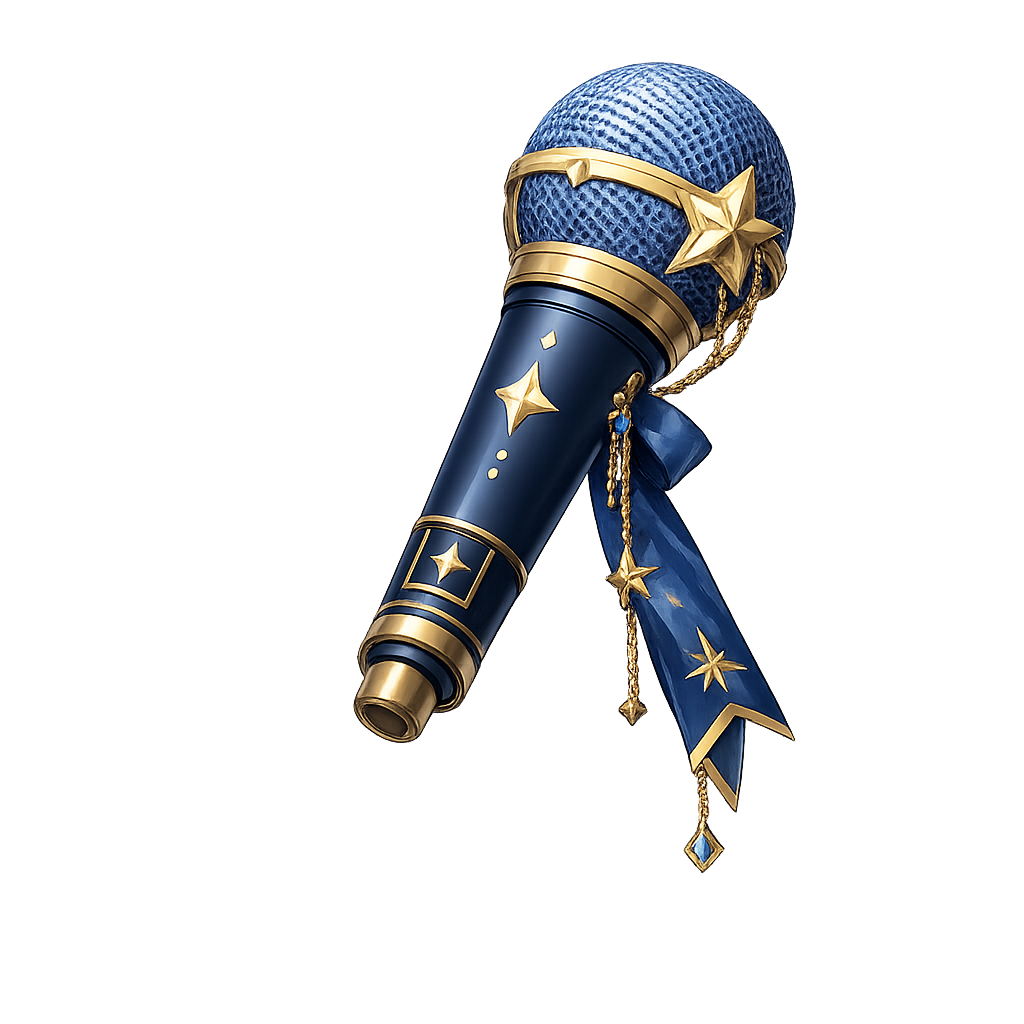
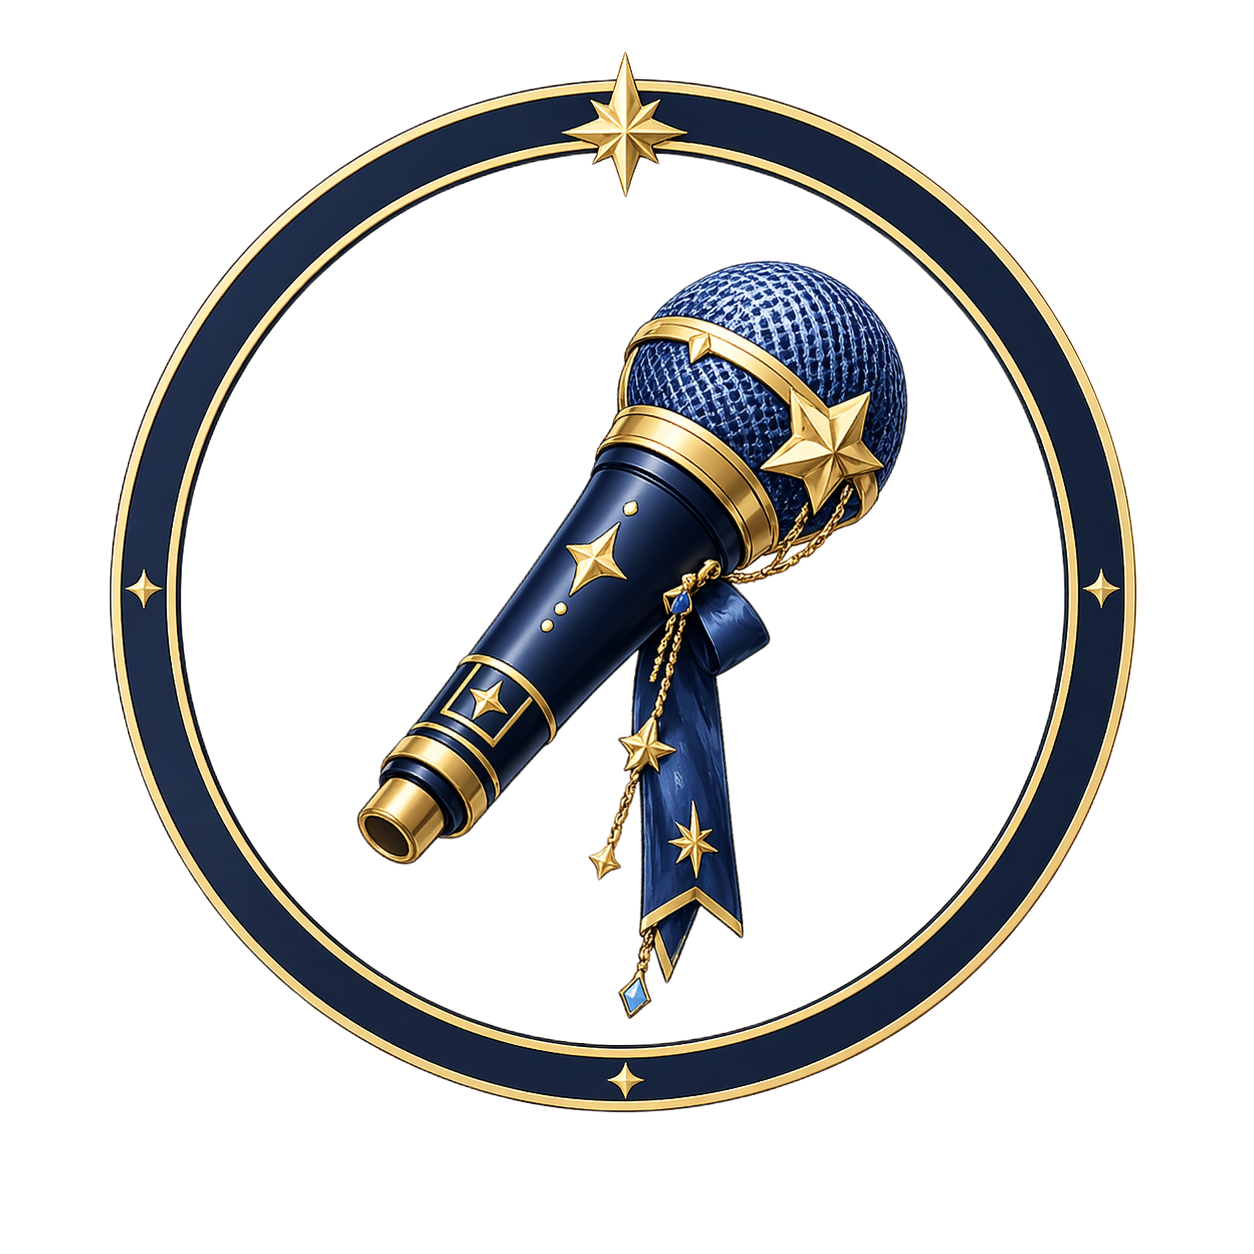
trying animation with masks

Changed region(s): [[0.0625, 0.0625, 0.9062, 0.9062]]

diff --git a/frontend/src/index.css b/frontend/src/index.css
@@ -57,6 +57,42 @@ body {
   @apply text-lg text-error font-semibold italic;
 }
 
+.section-kv {
+  @apply relative grid min-h-[80vh] place-items-center p-6;
+}
+
+.kv {
+  @apply pointer-events-none absolute inset-0 grid place-items-center;
+}
+
+.kv img {
+  @apply select-none;
+  width: min(90vw, 850px);
+  aspect-ratio: 1174 / 1150;
+  object-fit: contain;
+}
+
+.kv__outer1,
+.kv__outer2 {
+  @apply absolute grid place-items-center;
+}
+
+.kv__outer1 {
+  mask: radial-gradient(transparent 65%, #000 0, #000 100%);
+}
+
+.kv__outer2 {
+  mask: radial-gradient(#000 0, #000 62%, transparent 68%, transparent 100%);
+}
+
+.kv__outer1 > div {
+  animation: 42s kvSpinClockwise linear infinite;
+}
+
+.kv__outer2 > div {
+  animation: 56s kvSpinCounter linear infinite;
+}
+
 /* Flush to viewport right: flat edge = screen edge; left side rounded (half-pill).
    Small “shoulder” tab for scroll sits above the back bar on the right — see sketch. */
 .edge-screen-actions {
@@ -120,5 +156,31 @@ input:-webkit-autofill:active {
   100% {
     --conic-angle: 360deg;
     box-shadow: 0 0 15px var(--glow-color);
+  }
+}
+
+@keyframes kvSpinClockwise {
+  from {
+    transform: rotate(0deg);
+  }
+  to {
+    transform: rotate(360deg);
+  }
+}
+
+@keyframes kvSpinCounter {
+  from {
+    transform: rotate(360deg);
+  }
+  to {
+    transform: rotate(0deg);
+  }
+}
+
+@media (prefers-reduced-motion: reduce) {
+  .kv__outer1 > div,
+  .kv__outer2 > div,
+  .kv__outer3 > div {
+    animation: none;
   }
 }

diff --git a/frontend/src/pages/LoginPage.jsx b/frontend/src/pages/LoginPage.jsx
@@ -1,9 +1,27 @@
-import React from 'react'
+import kvRing from "../assets/kv-xl.png";
 
 const LoginPage = () => {
   return (
-    <div>LoginPage</div>
-  )
-}
+    <section className="login-page">
+      <div className="section-kv">
+        <div className="kv">
+          <div className="kv__outer1">
+            <div>
+              <img src={kvRing} alt="Outer ring" width="1174" height="1150" />
+            </div>
+          </div>
 
-export default LoginPage
+          <div className="kv__outer2">
+            <div>
+              <img src={kvRing} alt="Inner ring" width="1174" height="1150" />
+            </div>
+          </div>
+
+        </div>
+
+      </div>
+    </section>
+  );
+};
+
+export default LoginPage;

diff --git a/frontend/src/components/Header.jsx b/frontend/src/components/Header.jsx
@@ -9,7 +9,7 @@ const Header = () => {
 
   return (
     <header className="header">
-      <div className="h-20 pt-2">
+      <div className="h-22 pt-1">
         <Link to="/">
           <img src={logo} alt="suisei-logo" className="h-full" />
         </Link>
